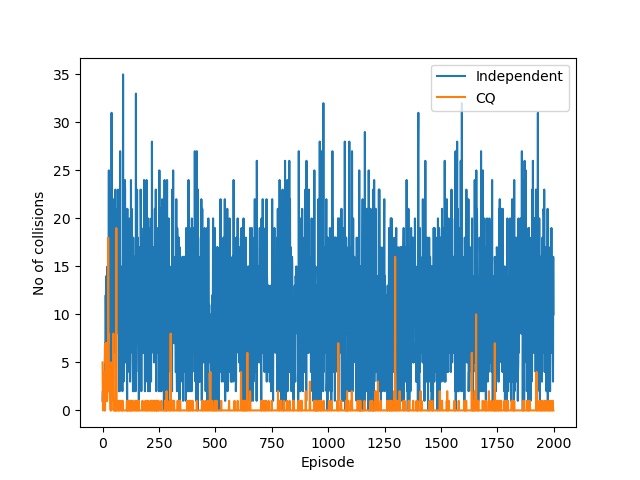
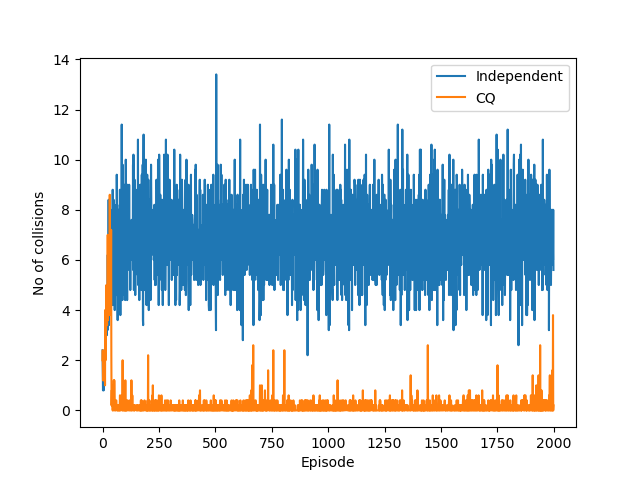
Generate plots with more trials

diff --git a/cq/__main__.py b/cq/__main__.py
@@ -5,12 +5,12 @@ from .cqlearners import CQLearner
 from .plot import Plot
 
 def main(args=None):
-#    run_basic_grid()
+    run_basic_grid()
     run_tunnel_to_goal()
 
 def run_tunnel_to_goal():
     gridworld = GridWorld.tunnel_to_goal()
-    runner = Runner(2000, 1, gridworld)
+    runner = Runner(2000, 10, gridworld)
     plot = Plot("tunnel")
     agent_creator = AgentCreator((0,0), (0,4))
     independent_results = runner.run(agent_creator.create_independent_agents)
@@ -26,7 +26,7 @@ def run_tunnel_to_goal():
     
 def run_basic_grid():
     gridworld = GridWorld.basic_grid()
-    runner = Runner(2000, 2, gridworld)
+    runner = Runner(2000, 10, gridworld)
     plot = Plot("basic")
     agent_creator = AgentCreator((0,2), (2,2))
     plot.collisions_over_time_plot({
@@ -38,8 +38,8 @@ class AgentCreator:
     def create_independent_agents(self):
         learning_rate = lambda time_step: 0.1
         return [
-            IndependentAgent(learning_rate=learning_rate, epsilon=0.1, discount_factor=0.5, state=self.start_1, name="Agent 1"),
-            IndependentAgent(learning_rate=learning_rate, epsilon=0.1, discount_factor=0.5, state=self.start_2, name="Agent 2")
+            IndependentAgent(learning_rate=learning_rate, epsilon=0.1, discount_factor=0.75, state=self.start_1, name="Agent 1"),
+            IndependentAgent(learning_rate=learning_rate, epsilon=0.1, discount_factor=0.75, state=self.start_2, name="Agent 2")
         ]
 
     def create_cq_agents(self):
@@ -47,7 +47,7 @@ class AgentCreator:
             "Agent 1": self.start_1,
             "Agent 2": self.start_2
         }
-        return [ CQLearner(name, initial_state, discount_factor=0.5) for name in initial_state ]
+        return [ CQLearner(name, initial_state, discount_factor=0.75) for name in initial_state ]
 
     def __init__(self, start_1, start_2):
         self.start_1 = start_1

diff --git a/cq/runner.py b/cq/runner.py
@@ -57,7 +57,7 @@ class Runner:
         elif wall:
             return -30
         elif goal:
-            return 10000
+            return 1000
         else:
             return 0
             
